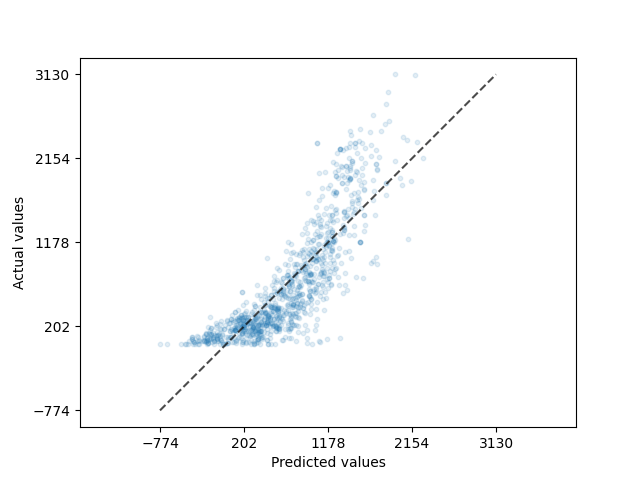
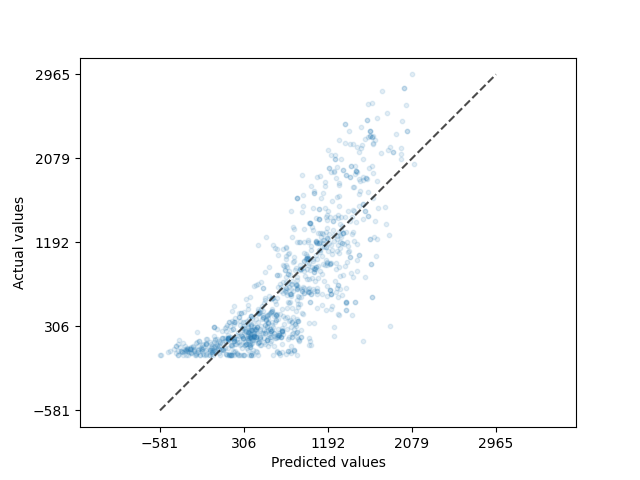
Changed to test set for model evaluation

diff --git a/README.md b/README.md
@@ -81,7 +81,7 @@ python scripts/fit_rental_bike_prediction.py \
     --seed=522
 
 python scripts/evaluate_rental_bike_prediction.py \
-    --test-data=data/processed/bike_train.csv \
+    --test-data=data/processed/bike_test.csv \
     --pipeline-from-ridge=results/models/ridge_pipeline.pickle \
     --pipeline-from-tree=results/models/tree_pipeline.pickle \
     --results-to=results/tables \
